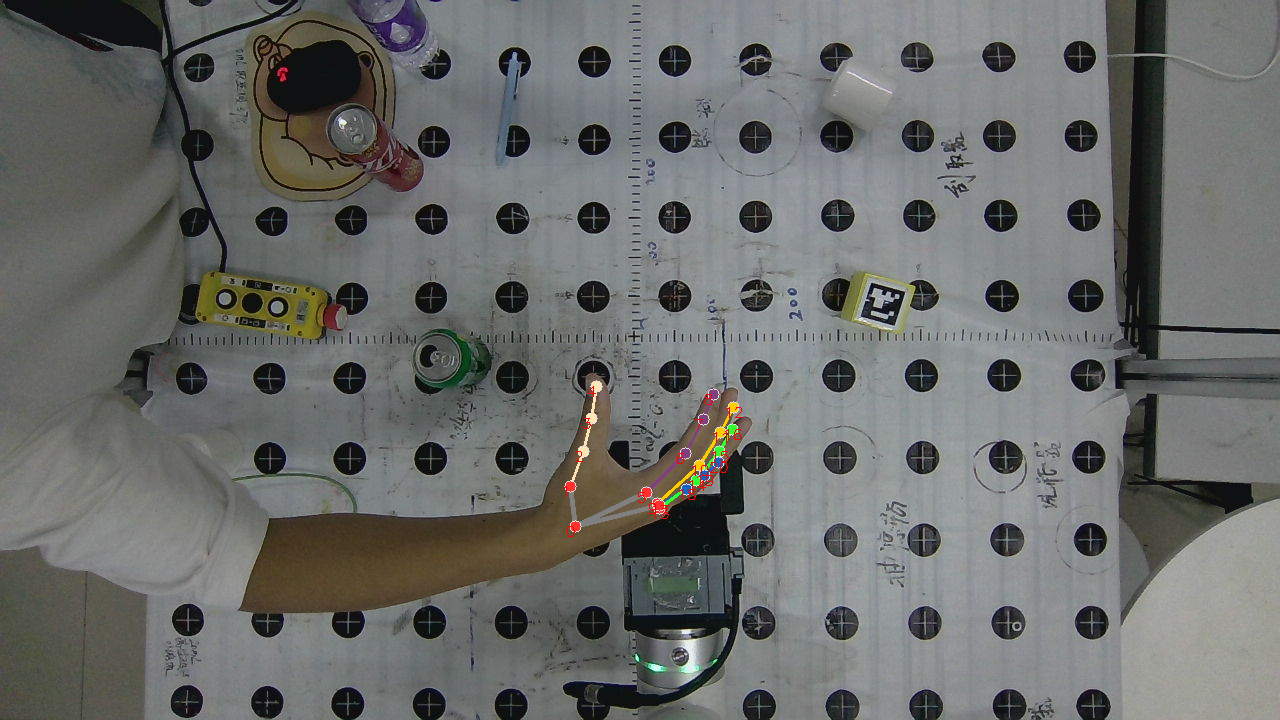
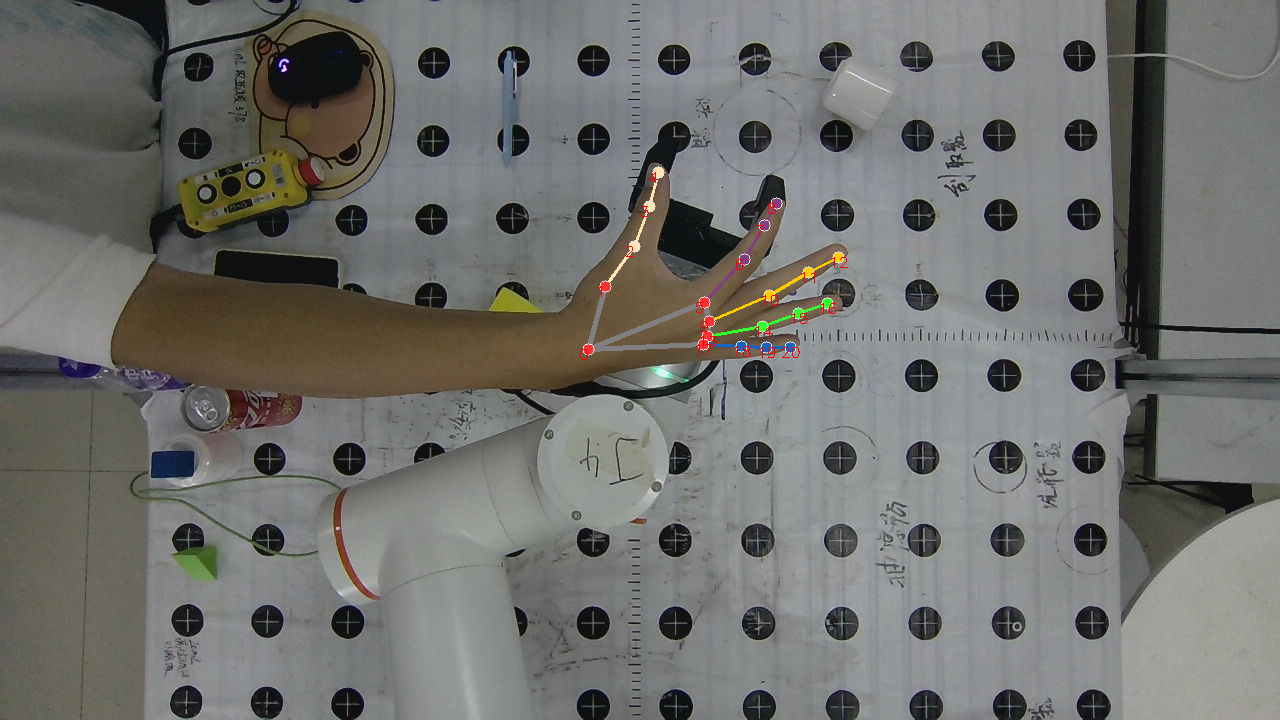
深度图无效点待处理

diff --git a/wjx/eye/get_r/SingleImageProsessor.py b/wjx/eye/get_r/SingleImageProsessor.py
@@ -35,11 +35,15 @@ class SingleImageProcessor:
 
         # 相机的参数
         self.intrinsic = [[689.5, 0, 645.34], [0, 689.82, 355.85], [0, 0, 1]]
-        self.cam2world = [[-0.9901652346580831, 0.013433445840222654, 0.13925642034520688, -27.163789618795875], 
-                          [0.006592239752229778, 0.9987537537350062, -0.049472030232080154, -593.2150728299232], 
-                          [-0.13974745239020378, -0.048067472713806535, -0.9890198014283411, 834.0095420825568], 
-                          [0.0, 0.0, 0.0, 1.0]]
+        # self.cam2world = [[-0.9901652346580831, 0.013433445840222654, 0.13925642034520688, -27.163789618795875], 
+        #                   [0.006592239752229778, 0.9987537537350062, -0.049472030232080154, -593.2150728299232], 
+        #                   [-0.13974745239020378, -0.048067472713806535, -0.9890198014283411, 834.0095420825568], 
+        #                   [0.0, 0.0, 0.0, 1.0]]
         
+        self.cam2world = [[-0.08179040668225812, 0.08403745746040085, 0.9931002140359966, -390.0579804021143], 
+                          [0.06515666431556531, 0.9947579370642825, -0.07881152036905045, -562.9389578523518], 
+                          [-0.9945174400029493, 0.058261070975427785, -0.08683725662857267, 414.30145543218623], 
+                          [0.0, 0.0, 0.0, 1.0]]
         # 拟合3D点集的平面ax+by+cz+d=0
         # 点0到8的拟合平面
         self.plane = [None] * 4  # 平面方程参数 (a, b, c, d)
@@ -170,7 +174,7 @@ class SingleImageProcessor:
     
 
 
-    def get_hand_point(self, index, roi_size=10):
+    def get_hand_point(self, index, roi_size=15):
         '''获取指定手部关键点，支持在像素范围内取深度均值'''
         if self.results is None:
             raise ValueError("请先调用 images_to_results() 方法获取处理结果")
@@ -393,8 +397,8 @@ class SingleImageProcessor:
 
 
     def run(self):
-        rgb_image_path = "/home/xuan/dianrobot/test.png"
-        depth_image_path = "/home/xuan/dianrobot/test_depth.png"
+        rgb_image_path = "/home/xuan/dianrobot/wjx/eye/get_r/imgs/test.png"
+        depth_image_path = "/home/xuan/dianrobot/wjx/eye/get_r/imgs/test_depth.png"
         self.load_images(rgb_image_path, depth_image_path)
         self.images_to_results()
         self.update_all_axes()
@@ -408,14 +412,14 @@ class SingleImageProcessor:
 if __name__ == "__main__":
     # 示例用法
     processor = SingleImageProcessor()
-    rgb_image_path = "/home/xuan/dianrobot/test.png"
-    depth_image_path = "/home/xuan/dianrobot/test_depth.png"
-    processor.load_images(rgb_image_path, depth_image_path)
-    processor.images_to_results()
-    processor.draw_and_show_hand_landmarks()
-    processor.update_all_axes()
-    processor.get_tool2world_transformation()
-    processor.draw_workpiece_axes_on_image(axis_length=50, show=True, window_name="Workpiece Axes")
-    processor.get_rxryrz_from_rotation_matrix()
-    processor.update_gripper_position()
-    # processor.run()
+    # rgb_image_path = "/home/xuan/dianrobot/test.png"
+    # depth_image_path = "/home/xuan/dianrobot/test_depth.png"
+    # processor.load_images(rgb_image_path, depth_image_path)
+    # processor.images_to_results()
+    # processor.draw_and_show_hand_landmarks()
+    # processor.update_all_axes()
+    # processor.get_tool2world_transformation()
+    # processor.draw_workpiece_axes_on_image(axis_length=50, show=True, window_name="Workpiece Axes")
+    # processor.get_rxryrz_from_rotation_matrix()
+    # processor.update_gripper_position()
+    processor.run()

diff --git a/wjx/eye/get_r/SpaceMath.py b/wjx/eye/get_r/SpaceMath.py
@@ -5,8 +5,7 @@ transform_to_world_coordinates
 '''
 import numpy as np
 import cv2
-
-
+from scipy.spatial.transform import Rotation
 
 def Cam2World(cam2world, cam_point3d):
     """
@@ -50,8 +49,8 @@ def depth_pixel2cam_point3d(px, py, depth=None, intrinsic=None):
     else:
         raise ValueError("必须提供相机内参 intrinsic")
     # 计算相机坐标
-    x_cam = (px - cx) * z_cam / fx
-    y_cam = (py - cy) * z_cam / fy
+    x_cam = (px - cx) / fx * z_cam
+    y_cam = (py - cy) / fy * z_cam
     return [x_cam, y_cam, z_cam]
 
 
@@ -153,17 +152,8 @@ def get_rxryrz_from_R(R):
     import cv2
 
     R = np.array(R)
-    euler_angles, *_ = cv2.RQDecomp3x3(R)
-    rx, ry, rz = euler_angles
-    # 将rz限制在[-90, 90]度
-    if rz > 50:
-        rz = 50
-    elif rz < -45:
-        rz = -45
-
-    # 将ry限制在[0, 180]度
-    if ry < -30:
-        ry = 0
-    elif ry > 180:
-        ry -= 180
+    rot = Rotation.from_matrix(R)
+    euler = rot.as_euler('XYZ', degrees=True)
+    rx, ry, rz = euler
+    print("rx, ry, rz:", rx, ry, rz)
     return rx, ry, rz

diff --git a/wjx/eye/get_r/Imitator.py b/wjx/eye/get_r/Imitator.py
@@ -19,9 +19,9 @@ robot = Robot.RPC('192.168.58.6')
 input("拍照")
 
 rgb_img = camera.read_color_img()
-cv2.imwrite("test.png", rgb_img)
+cv2.imwrite("/home/xuan/dianrobot/wjx/eye/get_r/imgs/test.png", rgb_img)
 depth_img = camera.read_depth_img()
-cv2.imwrite("test_depth.png", depth_img)
+cv2.imwrite("/home/xuan/dianrobot/wjx/eye/get_r/imgs/test_depth.png", depth_img)
 # while pos is None:
 #     img = camera.read_color_img()
 #     cv2.imwrite("test.jpg", img)
@@ -38,10 +38,13 @@ cv2.imwrite("test_depth.png", depth_img)
 # print("抓取位姿:", pos)
 # 复位
 pos = processor.run()
+pos = np.array(pos) + np.array([0, 100, 0, 0, 0, 0])
 input("复位")
 robot.MoveCart([0, -380, 200, 90, 0, 0], 0, 0, vel=20, acc=20)
 input("复现位姿")
 robot.MoveCart(pos, 0, 0, vel=20, acc=20)
+img = camera.read_color_img()
+cv2.imwrite("/home/xuan/dianrobot/wjx/eye/get_r/imgs/机械臂复现.png", img)
 input("复位")
 robot.MoveCart([0, -380, 200, 90, 0, 0], 0, 0, vel=20, acc=20)
 

diff --git a/wjx/eye/get_r/get_rotation.py b/wjx/eye/get_r/get_rotation.py
@@ -22,8 +22,8 @@ mp_drawing = mp.solutions.drawing_utils
 mp_drawing_styles = mp.solutions.drawing_styles
 
 # 读取图片
-img_path = '/home/xuan/dianrobot/dianrobot/wjx/eye/get_r/hand_capture_rgb.png'
-depth_img_path = '/home/xuan/dianrobot/dianrobot/wjx/eye/get_r/hand_capture_depth.png'
+img_path = '/home/xuan/dianrobot/wjx/eye/get_r/imgs/test.png'
+depth_img_path = '/home/xuan/dianrobot/wjx/eye/get_r/imgs/test_depth.png'
 image = cv2.imread(img_path)
 depth_image = cv2.imread(depth_img_path, cv2.IMREAD_UNCHANGED)
 if image is None:
